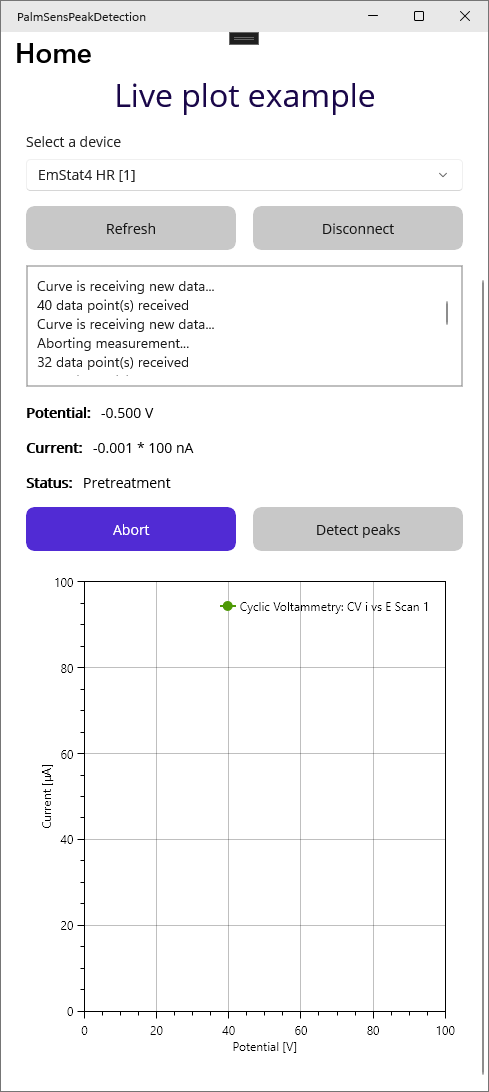
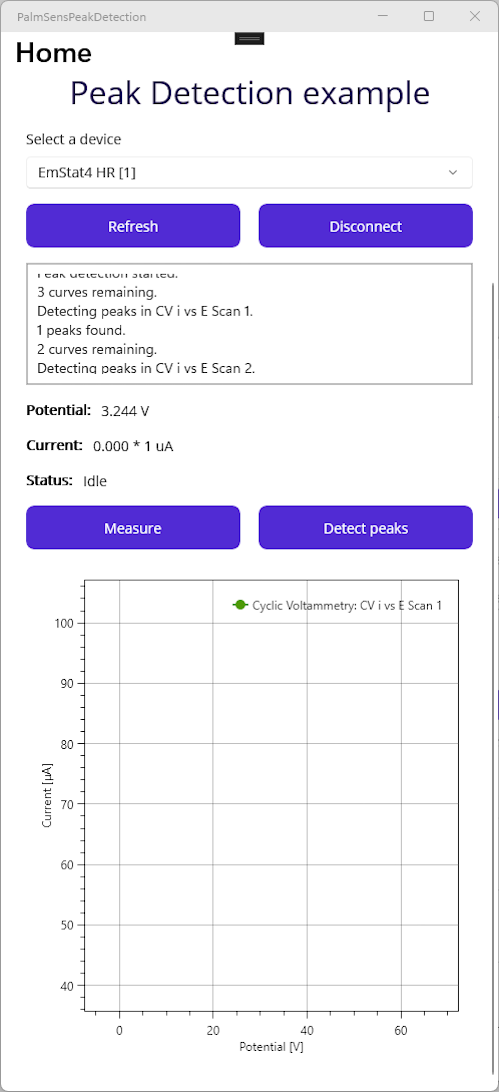
Update image for peak detection app

diff --git a/maui/Examples/PeakDetectionApp/MainPage.xaml b/maui/Examples/PeakDetectionApp/MainPage.xaml
@@ -16,7 +16,7 @@
                 Aspect="AspectFit" />
 
             <Label
-                Text="Live plot example"
+                Text="Peak Detection example"
                 Style="{StaticResource Headline}"
                 SemanticProperties.HeadingLevel="Level1" />
 
